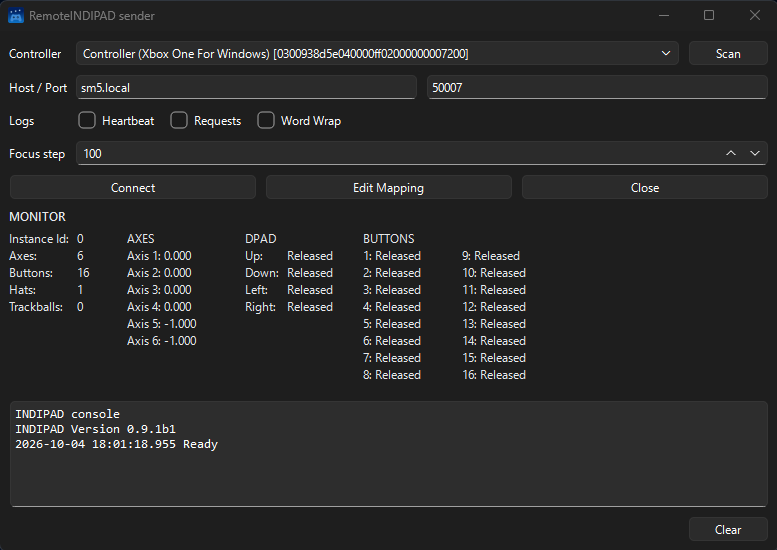
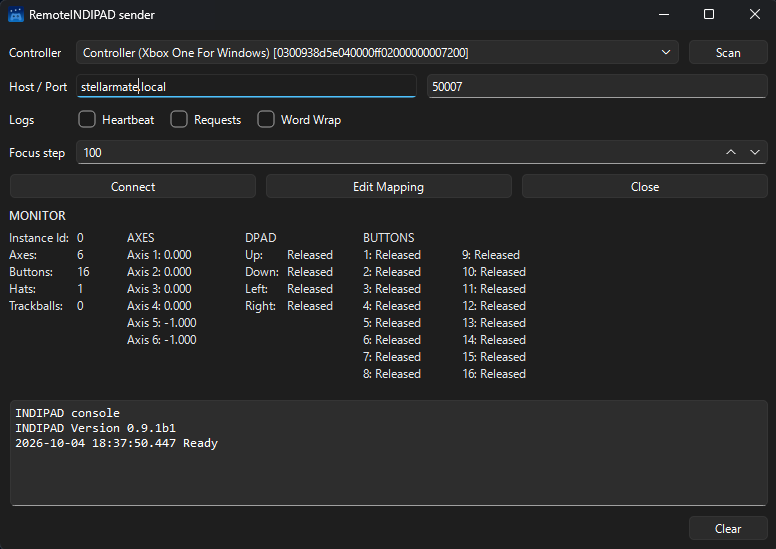
feat: add fake control classes for improved unit testing of GUI components

diff --git a/tests/test_protocol.py b/tests/test_protocol.py
@@ -370,6 +370,9 @@ class ProtocolTests(unittest.TestCase):
             },
         }
         class FakeCombo:
+            def currentData(self):
+                return "JC-U3712T"
+
             def currentText(self):
                 return "JC-U3712T"
         window.controller_combo = FakeCombo()
@@ -392,6 +395,9 @@ class ProtocolTests(unittest.TestCase):
                 self.stopped = True
 
         class FakeCombo:
+            def currentData(self):
+                return "Xbox One S Controller"
+
             def currentText(self):
                 return "Xbox One S Controller"
 
@@ -1098,6 +1104,7 @@ class ProtocolTests(unittest.TestCase):
             def __init__(self):
                 self.text = "Disconnect"
                 self.stylesheet = ""
+                self.enabled = True
 
             def setText(self, text):
                 self.text = text
@@ -1105,17 +1112,33 @@ class ProtocolTests(unittest.TestCase):
             def setStyleSheet(self, stylesheet):
                 self.stylesheet = stylesheet
 
+            def setEnabled(self, enabled):
+                self.enabled = enabled
+
+        class FakeControl:
+            def __init__(self):
+                self.enabled = True
+
+            def setEnabled(self, enabled):
+                self.enabled = enabled
+
         window = sender.IndipadWindow.__new__(sender.IndipadWindow)
         window.connection_button = FakeButton()
+        window.scan_button = FakeControl()
+        window.controller_combo = FakeControl()
         window.worker = object()
 
         window._handle_connection_update("Disconnected")
         self.assertEqual(window.connection_button.text, "Connect")
+        self.assertTrue(window.scan_button.enabled)
+        self.assertTrue(window.controller_combo.enabled)
         self.assertIsNone(window.worker)
 
         window.worker = object()
         window._handle_connection_update("Connected: Test Controller")
         self.assertEqual(window.connection_button.text, "Disconnect")
+        self.assertFalse(window.scan_button.enabled)
+        self.assertFalse(window.controller_combo.enabled)
 
     def test_receiver_gui_settings_have_expected_defaults(self):
         defaults = receiver.load_gui_settings(path=Path("/tmp/does-not-exist.json"))
@@ -1682,12 +1705,16 @@ class ProtocolTests(unittest.TestCase):
             def __init__(self):
                 self.enabled = True
                 self.tooltip = ""
+                self.text = ""
 
             def setEnabled(self, enabled):
                 self.enabled = enabled
 
             def setToolTip(self, tooltip):
                 self.tooltip = tooltip
+
+            def setText(self, text):
+                self.text = text
 
         class FakeModel:
             def __init__(self, item):
@@ -1701,6 +1728,9 @@ class ProtocolTests(unittest.TestCase):
                 self.target = target
                 self.text = "192.0.2.4 (Test Network)"
                 self.fake_item = FakeItem()
+
+            def setEnabled(self, enabled):
+                self.enabled = enabled
 
             def count(self):
                 return 1
@@ -1722,6 +1752,17 @@ class ProtocolTests(unittest.TestCase):
             def model(self):
                 return FakeModel(self.fake_item)
 
+        class FakeWidget:
+            def __init__(self):
+                self.enabled = True
+                self.text = ""
+
+            def setEnabled(self, enabled):
+                self.enabled = enabled
+
+            def setText(self, text):
+                self.text = text
+
         target = {
             "mode": "address",
             "family": "ipv4",
@@ -1732,6 +1773,13 @@ class ProtocolTests(unittest.TestCase):
         }
         window = receiver.ReceiverWindow.__new__(receiver.ReceiverWindow)
         window.listen_combo = FakeCombo(target)
+        window.toggle_button = FakeWidget()
+        window.mount_combo = FakeWidget()
+        window.focuser_combo = FakeWidget()
+        window.filter_combo = FakeWidget()
+        window.rotator_combo = FakeWidget()
+        window.scan_button = FakeWidget()
+        window.service_status_label = FakeWidget()
         window.log_queue = receiver.QueueLogHandler()
         window.log_queue.emit_bind_failure({
             **target,
